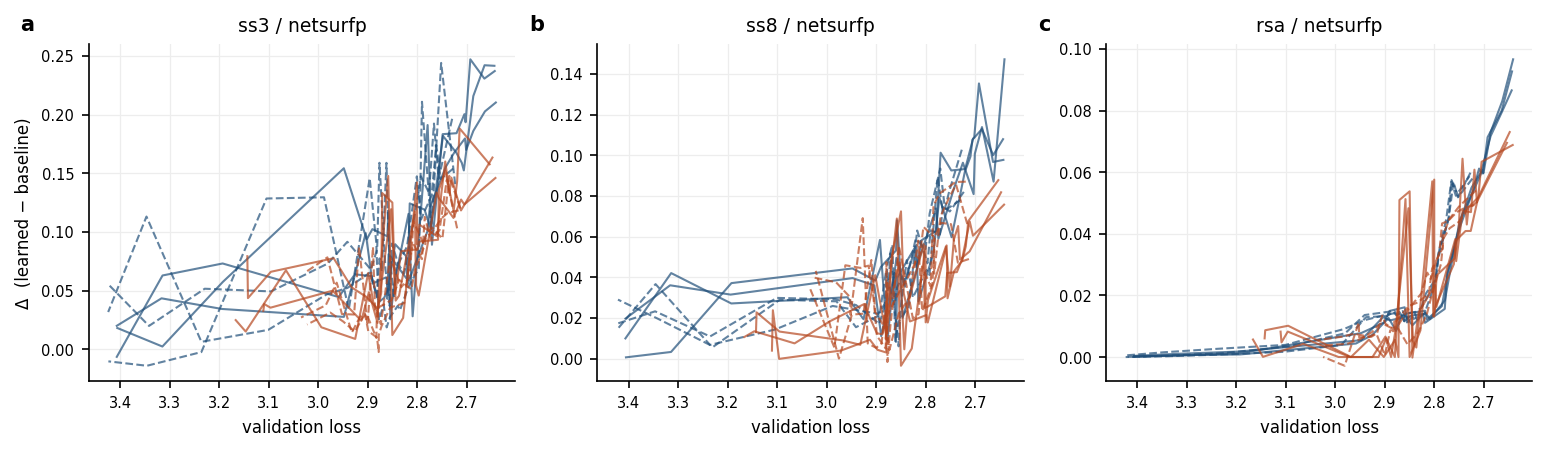
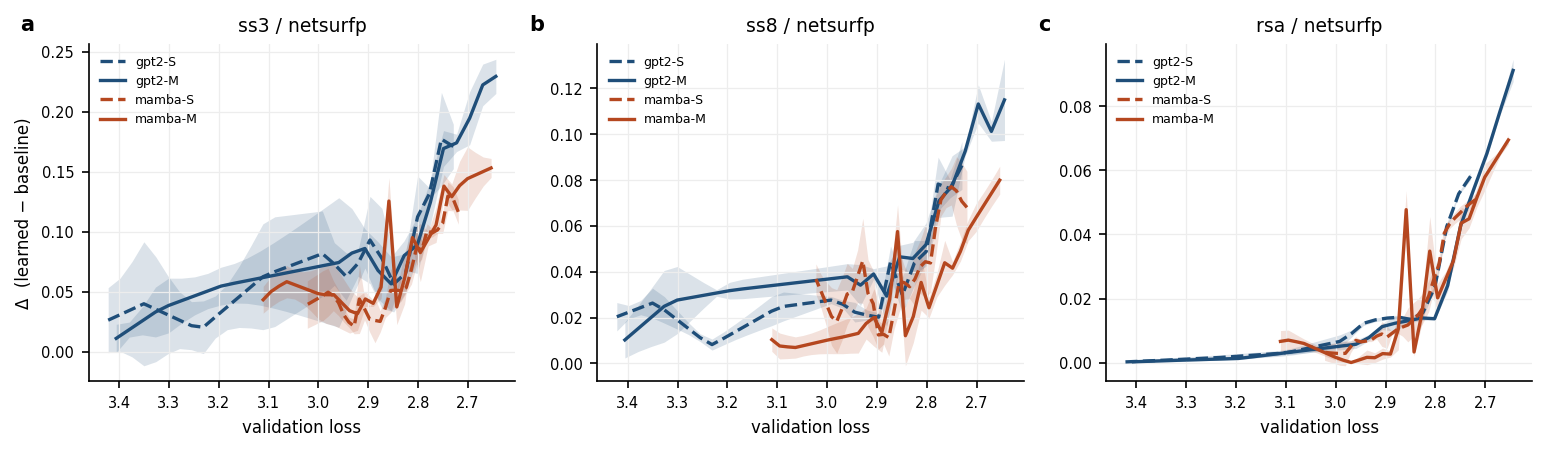
result(pillar-2): seed-aggregate the matched-loss figure (loss-controlled mean±band)
PI directive: make the keystone panel publication-grade. fig_vs_valloss now interpolates each seed's Δ(val_loss) onto a COMMON val_loss grid (over the seed-shared loss range) and plots seed-mean ± std band — aggregating by LOSS, not by step, so it compares architectures at matched LM competence. Per-seed view kept as fig_vs_valloss_seeds (supplement). Read: ss3/ss8 show clean gpt2-M>mamba-M at matched loss; rsa directionally consistent but bands overlap (noisy). Test updated; regenerated figures.

diff --git a/scripts/plot_emergence.py b/scripts/plot_emergence.py
@@ -34,6 +34,7 @@ sys.path.insert(0, str(Path(__file__).resolve().parents[1]))
 import matplotlib  # noqa: E402
 matplotlib.use("Agg")
 import matplotlib.pyplot as plt  # noqa: E402
+import numpy as np  # noqa: E402
 
 from scripts.analyze_emergence import (  # noqa: E402
     DEFAULT_EPS, auec, emergence_times, load_curves,
@@ -144,13 +145,85 @@ def fig_vs_step(curves, out: Path) -> None:
     _save(fig, out)
 
 
-def fig_vs_valloss(curves, valloss: Dict[tuple, float], out: Path) -> None:
-    """Family 2 (matched-loss): Delta vs validation loss, exact per-checkpoint join.
+def _seed_aggregate_vs_valloss(curves, valloss, concept, source, arch, scale, n_grid=30):
+    """Seed-mean ± std of Δ on a COMMON val_loss grid (loss-controlled).
 
-    The decisive figure: at the SAME validation loss, does gpt2 expose more decodable
-    structure than mamba (representational inductive bias), or do the curves overlap
-    (a pure optimization-speed difference)?
+    Interpolates each seed's Δ(val_loss) onto a shared grid spanning the val_loss range ALL
+    that arch/scale's seeds cover, then aggregates. Aggregating by LOSS (not by step) is the
+    whole point: it compares architectures at matched language-modeling competence, which
+    they reach at different steps. Returns ``(grid, mean, std)`` or ``None``.
     """
+    seed_curves = []
+    for (c, s, a, sc, seed), curve in curves.items():
+        if (c, s, a, sc) != (concept, source, arch, scale):
+            continue
+        pts = sorted((valloss[(a, sc, seed, st)], d) for st, d in curve
+                     if (a, sc, seed, st) in valloss)
+        if len(pts) >= 2:
+            seed_curves.append(pts)
+    if not seed_curves:
+        return None
+    lo = max(pts[0][0] for pts in seed_curves)        # max over seeds of (min val_loss)
+    hi = min(pts[-1][0] for pts in seed_curves)        # min over seeds of (max val_loss)
+    if hi <= lo:
+        return None
+    grid = np.linspace(lo, hi, n_grid)
+    rows = [np.interp(grid, [p[0] for p in pts], [p[1] for p in pts]) for pts in seed_curves]
+    arr = np.array(rows)
+    return grid, arr.mean(axis=0), arr.std(axis=0)
+
+
+def fig_vs_valloss(curves, valloss: Dict[tuple, float], out: Path) -> None:
+    """Family 2 MAIN (matched-loss): seed-mean ± band of Δ vs validation loss, loss-controlled.
+
+    THE decisive figure: at the SAME validation loss, does gpt2 expose more decodable
+    structure than mamba (representational inductive bias) or do the curves overlap (a pure
+    optimization-speed difference)? Aggregated across seeds on a common val_loss grid; the
+    busy per-seed view is the supplement (:func:`fig_vs_valloss_seeds`).
+    """
+    if not valloss:
+        return
+    _style()
+    tasks = _tasks(curves)
+    archscales = sorted({(a, sc) for (_c, _s, a, sc, _seed) in curves},
+                        key=lambda t: (_ARCHES.index(t[0]) if t[0] in _ARCHES else 9,
+                                       _SCALES.index(t[1]) if t[1] in _SCALES else 9))
+    drew = False
+    ncols = min(len(tasks), 3)
+    nrows = -(-len(tasks) // ncols)
+    fig, axes = plt.subplots(nrows, ncols, figsize=(3.4 * ncols, 2.9 * nrows),
+                             constrained_layout=True, squeeze=False)
+    flat = [a for row in axes for a in row]
+    for i, (concept, source) in enumerate(tasks):
+        ax = flat[i]
+        for (arch, scale) in archscales:
+            agg = _seed_aggregate_vs_valloss(curves, valloss, concept, source, arch, scale)
+            if agg is None:
+                continue
+            grid, mean, std = agg
+            ax.plot(grid, mean, color=_COLOR.get(arch, "0.3"), ls=_LS.get(scale, "-"),
+                    lw=1.6, label=f"{arch}-{scale}")
+            ax.fill_between(grid, mean - std, mean + std, color=_COLOR.get(arch, "0.3"),
+                            alpha=0.16, lw=0)
+            drew = True
+        ax.invert_xaxis()            # training progresses as val loss falls
+        ax.set_xlabel("validation loss")
+        if i == 0:
+            ax.set_ylabel("Δ  (learned − baseline)")
+        ax.set_title(f"{concept} / {source}")
+        ax.grid(True, color="0.93", lw=0.6)
+        ax.text(-0.16, 1.04, "abcdefgh"[i], transform=ax.transAxes, fontsize=10, fontweight="bold")
+        ax.legend(frameon=False, fontsize=6)
+    if drew:
+        for ax in flat[len(tasks):]:
+            ax.set_visible(False)
+        _save(fig, out)
+    else:
+        plt.close(fig)
+
+
+def fig_vs_valloss_seeds(curves, valloss: Dict[tuple, float], out: Path) -> None:
+    """Family 2 SUPPLEMENT: per-seed Δ vs validation loss (the lines behind the band)."""
     if not valloss:
         return
     _style()
@@ -172,7 +245,7 @@ def fig_vs_valloss(curves, valloss: Dict[tuple, float], out: Path) -> None:
                 ax.plot([p[0] for p in pts], [p[1] for p in pts], color=_COLOR.get(arch, "0.3"),
                         ls=_LS.get(scale, "-"), lw=1.0, alpha=0.7)
                 drew = True
-        ax.invert_xaxis()            # training progresses as val loss falls
+        ax.invert_xaxis()
         ax.set_xlabel("validation loss")
         if i == 0:
             ax.set_ylabel("Δ  (learned − baseline)")
@@ -278,6 +351,7 @@ def main() -> int:
     valloss = load_val_loss_csv(args.results_dir)
     fig_vs_step(curves, Path(f"{args.out}_vs_step"))
     fig_vs_valloss(curves, valloss, Path(f"{args.out}_vs_valloss"))
+    fig_vs_valloss_seeds(curves, valloss, Path(f"{args.out}_vs_valloss_seeds"))
     fig_layer_heatmaps(sidecars, Path(f"{args.out}_heatmaps"))
     fig_emergence_times(curves, metric, Path(f"{args.out}_times"))
     return 0

diff --git a/tests/test_plot_emergence.py b/tests/test_plot_emergence.py
@@ -65,8 +65,9 @@ def test_plot_emergence_smoke(tmp_path):
 
     out = tmp_path / "fig" / "emergence"
     pe.fig_vs_step(curves, Path(f"{out}_vs_step"))
-    pe.fig_vs_valloss(curves, valloss, Path(f"{out}_vs_valloss"))
+    pe.fig_vs_valloss(curves, valloss, Path(f"{out}_vs_valloss"))                  # aggregated main
+    pe.fig_vs_valloss_seeds(curves, valloss, Path(f"{out}_vs_valloss_seeds"))      # per-seed supp.
     pe.fig_layer_heatmaps(pe.load_sidecars(results), Path(f"{out}_heatmaps"))
     pe.fig_emergence_times(curves, metric, Path(f"{out}_times"))
-    for suffix in ("_vs_step", "_vs_valloss", "_heatmaps", "_times"):
+    for suffix in ("_vs_step", "_vs_valloss", "_vs_valloss_seeds", "_heatmaps", "_times"):
         assert (tmp_path / "fig" / f"emergence{suffix}.png").exists(), suffix
